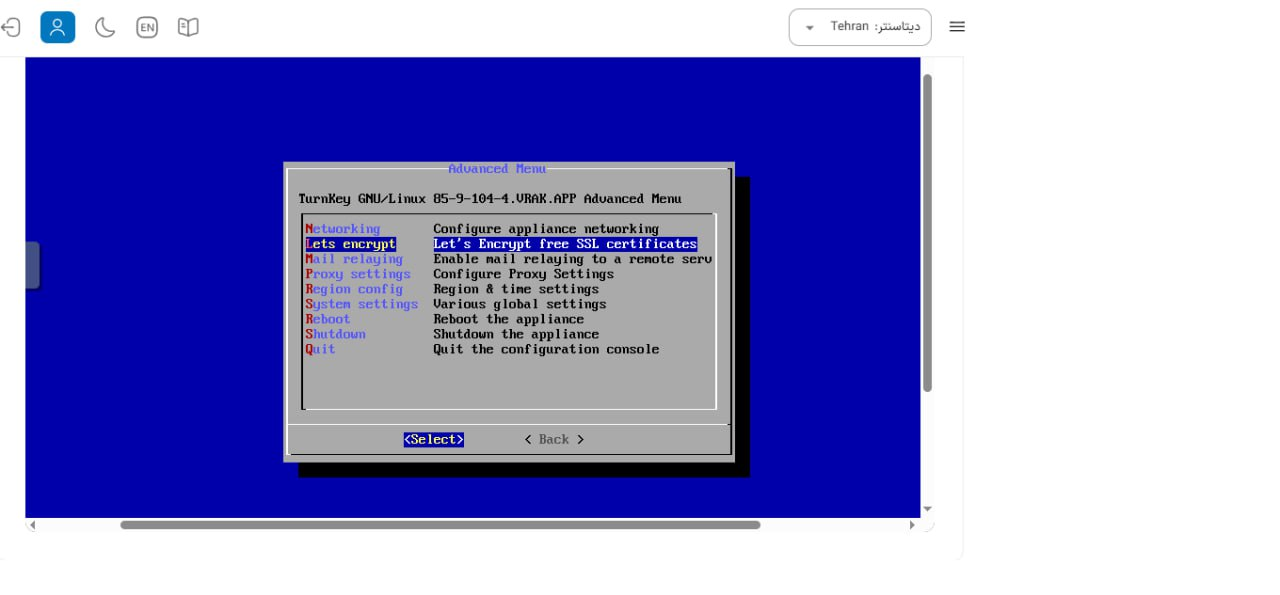
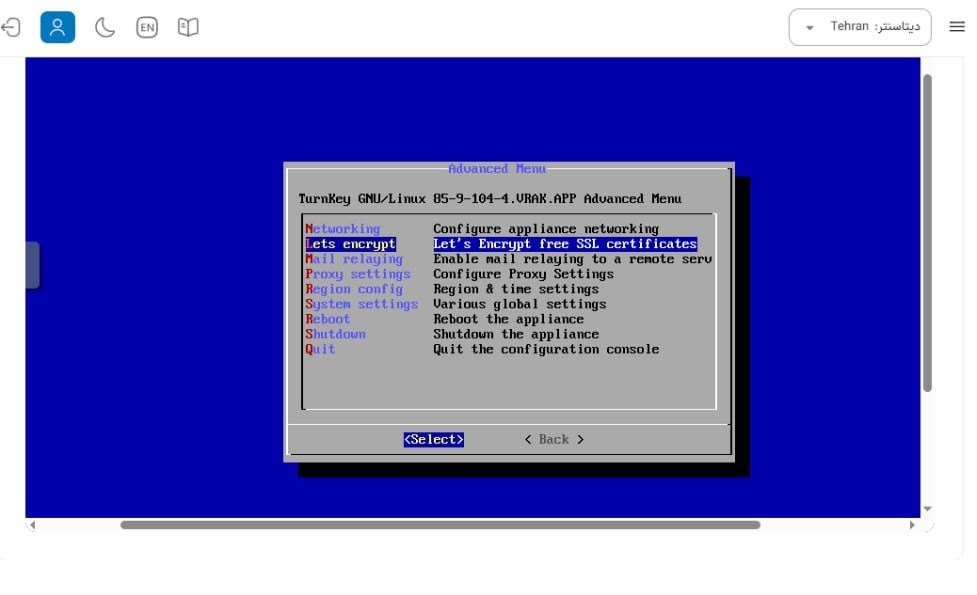
fix: update sidebar behavior in en style: add some css for style fix: loading width in safari

diff --git a/docs/.vitepress/theme/styles/custom.css b/docs/.vitepress/theme/styles/custom.css
@@ -28,6 +28,10 @@ header.VPNav .title .logo {
   height: 35px !important;
 }
 
+.VPSidebar.open {
+  transform: translateX(0) !important;
+}
+
 /* Define the custom font for RTL */
 @font-face {
   font-family: 'IranSans';
@@ -69,8 +73,9 @@ header.VPNav .title .logo {
 
 /*rtl:ignore*/
 :where([dir="ltr"]) {
-  .VPHero.has-image .container {
-    text-align: left !important;
+  .menu-icon {
+    margin-right: 8px;
+    margin-left: unset !important;
   }
 
   .vp-doc ul,
@@ -121,6 +126,10 @@ header.VPNav .title .logo {
   }
 
   @media only screen and (width > 960px) {
+    .VPHero.has-image .container {
+      text-align: left !important;
+    }
+
     .VPSidebar {
       inset-inline-start: 0 !important;
     }
@@ -148,6 +157,13 @@ header.VPNav .title .logo {
     .VPNavBarSearch {
       padding-left: 32px !important;
       padding-right: unset !important;
+    }
+  }
+
+  @media only screen and (max-width: 960px) {
+    .VPSidebar {
+      left: 0;
+      transform: translateX(-100%) !important;
     }
   }
 }

diff --git a/docs/public/index.html b/docs/public/index.html
@@ -38,7 +38,8 @@
     }
 
     #animate {
-      max-width: 400px;
+      width: 400px;
+      max-width: 80%;
       position: absolute;
       top: 50%;
       left: 50%;

diff --git a/docs/en/guides/instances/create/marketplace.md b/docs/en/guides/instances/create/marketplace.md
@@ -45,7 +45,7 @@ In addition to Webmin, which gives you full server/service configuration options
 />
 
 
-# Installation Steps
+## Installation Steps
 
 ::: tip Note:
 In this tutorial, WordPress has been selected as the OS.
